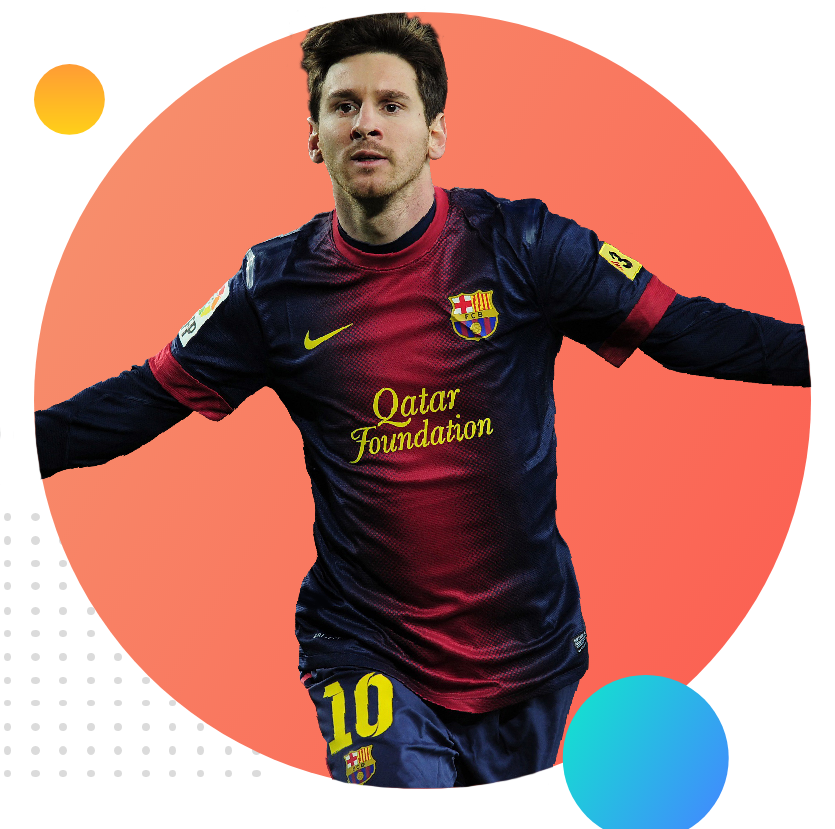
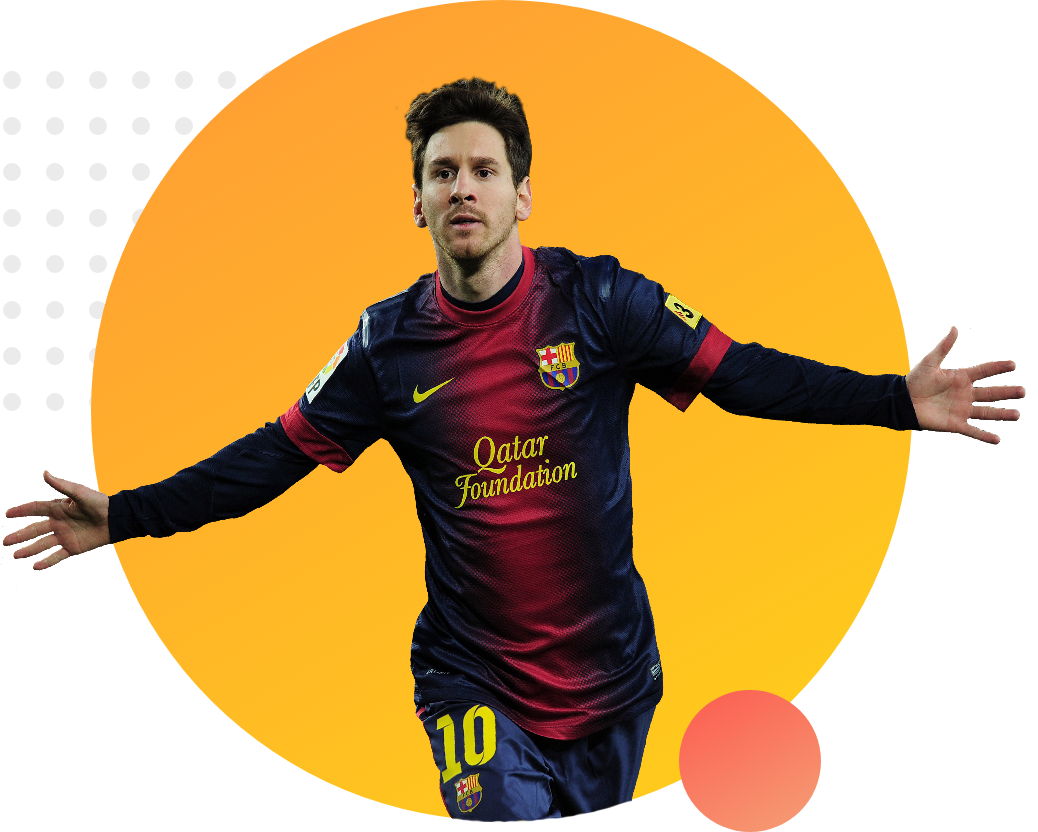
added secocnd section

diff --git a/index.html b/index.html
@@ -8,17 +8,32 @@
     <title>Leo Naiyem's Website</title>
 </head>
 <body>
- <section>
+ <section class="top-banner">
 
     <div class="half-width">
         <h1>Wolcome To</h1>
         <h1> <span class="name-highlight">Leo's</span> Own World!</h1>
-        <h3>World Class Professional Footballer (G.O.A.T)</h3>
+        <h3>World Class Professional Footballer</h3>
         <p>
-            Lionel Andrés Messi born is an Argentine professional footballer who plays as a forward and captains both Spanish club Barcelona and the Argentina national team. Messi has won a record six Ballon d'Or awards, and a record six European Golden Shoes.</p>
+            Lionel Andrés Messi (born 24 June 1987) is an Argentine professional footballer who plays as a forward and captains both Spanish club Barcelona and the Argentina national team.
+        </p>
+            <a class="link-button" href="https://en.wikipedia.org/wiki/Lionel_Messi" target="_blank">For More</a>
      </div>
      <div class="half-width">
         <img src="img/messi.png" alt="There is suppose to be an image">
+     </div>
+ </section>
+
+ <section>
+     <div class="half-width">
+         <img src="img/messi 2.png" alt="">
+     </div>
+     <div class="half-width">
+         <h1>Greatest Of All Time (G.O.A.T)</h1>
+         <p>
+            <b>Lionel Messi</b> often considered the best player in the world and widely regarded as one of the greatest players of all time, Messi has won a record six Ballon d'Or awards,and a record six European Golden Shoes. Most goal in a calander yrar (91). He has spent his entire professional career with Barcelona, where he has won a club-record 34 trophies, including ten La Liga titles, four UEFA Champions League titles and six Copas del Rey. A prolific goalscorer and a creative playmaker, Messi holds the records for most goals in La Liga (433), a La Liga and European league season (50), most hat-tricks in La Liga (35) and the UEFA Champions League (8), and most assists in La Liga (181) and the Copa América (13). He has scored over 700 senior career goals for club and country.
+        </p>
+
      </div>
  </section>
    

diff --git a/style.css b/style.css
@@ -1,5 +1,7 @@
 body{
+    margin: 0px;
     font-family: 'Roboto Slab', serif;
+    /* background-color: rgb(109, 243, 243); */
 }
 .name-highlight{
     color: darkorange;
@@ -13,4 +15,20 @@ body{
 .half-width img{
     width:100%;
 
+}
+.half-width p{
+    text-align: justify;
+}
+.top-banner{
+    background-image: url("img/top-banner.png");}
+section{
+    height: 500px;
+    background-repeat: no-repeat;
+}
+.link-button{
+    text-decoration: none;
+    background-image: linear-gradient(45deg, lightSalmon, tomato);
+    padding: 10px 20px;
+    border-radius: 5px;
+    color: white;
 }
